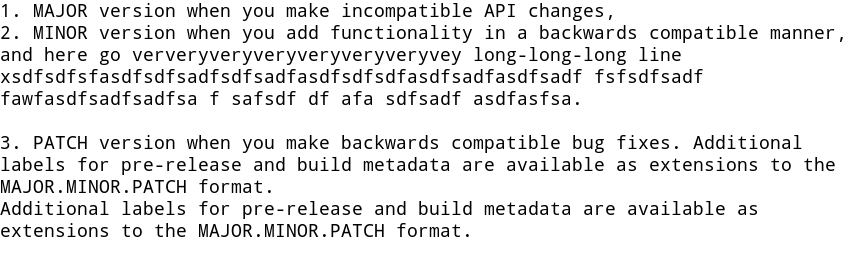
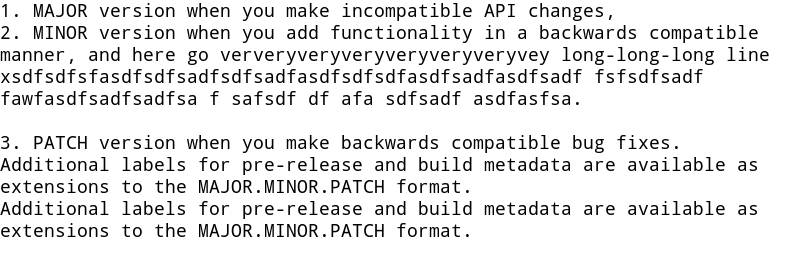
set size 800x

diff --git a/README.md b/README.md
@@ -14,5 +14,5 @@ convert -background white -size 800x -fill black -font Noto-Mono -pointsize 18 c
 
 - Convert txt in [txt](./txt/123.txt) to png in [imgs](./imgs/123-txt.png):
 ```bash
-convert -background white -size 860x -fill black -font Noto-Mono -pointsize 18 caption:"$(cat txt/123.txt)" imgs/123-txt.png
+convert -background white -size 800x -fill black -font Noto-Mono -pointsize 18 caption:"$(cat txt/123.txt)" imgs/123-txt.png
 ```
